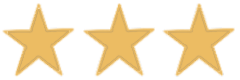
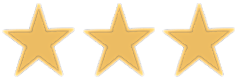
added star class

diff --git a/EndWorld.java b/EndWorld.java
@@ -9,10 +9,6 @@ import greenfoot.*;  // (World, Actor, GreenfootImage, Greenfoot and MouseInfo)
 public class EndWorld extends World
 {
     GreenfootImage endImage = new GreenfootImage ("images/endImage.PNG");
-    GreenfootImage zeroStar = new GreenfootImage ("imges/zeroStar.PNG");
-    GreenfootImage oneStar = new GreenfootImage ("imges/oneStar.PNG");
-    GreenfootImage twoStar = new GreenfootImage ("imges/twoStar.PNG");
-    GreenfootImage threeStar = new GreenfootImage ("imges/threeStar.PNG");
     
     Label completeLabel = new Label ("COMPLETE", 60);
     Label ordersDeliveredLabel = new Label ("Orders Delivered", 20);
@@ -25,7 +21,13 @@ public class EndWorld extends World
     Label totalCalculation;
     
     Color color = new Color (100, 100, 100);
-    Color white = new Color (155, 155, 155);
+    
+    Button continueButton;
+    Color blue = new Color (0, 71, 87);
+    Label continueLabel;
+    
+    Star star = new Star();
+    
     public EndWorld(int level, int numDelivered, int numFailed)
     {    
         super(1000, 600, 1); 
@@ -61,5 +63,20 @@ public class EndWorld extends World
         ordersFailedLabel.setLineColor(color);
         totalCalculation.setLineColor(color);
         totalLabel.setLineColor(color);
+        
+        continueLabel = new Label ("continue", 35);
+        continueButton = new Button (160, 60, blue);
+        addObject(continueButton, 8*60 + 20, 8*60 + 20);
+        addObject(continueLabel, 8*60 + 20, 8*60 + 20);
+        
+        addObject(star, 8*60 + 20, 6*60 + 20);
+    }
+    
+    public void act() {
+        if (Greenfoot.mouseClicked(continueLabel) || Greenfoot.mouseClicked(continueButton)) {
+            GameState s = new GameState();
+            Greenfoot.setWorld (new LevelWorld(s.level1Unlocked, s.level2Unlocked, s.level3Unlocked));
+            
+        }
     }
 }

diff --git a/Star.java b/Star.java
@@ -1,0 +1,23 @@
+import greenfoot.*;  // (World, Actor, GreenfootImage, Greenfoot and MouseInfo)
+
+/**
+ * Write a description of class Star here.
+ * 
+ * @author (your name) 
+ * @version (a version number or a date)
+ */
+public class Star extends Actor
+{
+    GreenfootImage zeroStar = new GreenfootImage ("images/zeroStar.PNG");
+    GreenfootImage oneStar = new GreenfootImage ("images/oneStar.PNG");
+    GreenfootImage twoStar = new GreenfootImage ("images/twoStar.PNG");
+    GreenfootImage threeStar = new GreenfootImage ("images/threeStar.PNG");
+    public Star() {
+        setImage (threeStar);
+    }
+    
+    public void act()
+    {
+        // Add your action code here.
+    }
+}

diff --git a/LevelWorld.java b/LevelWorld.java
@@ -32,9 +32,9 @@ public class LevelWorld extends World
         if (Greenfoot.mouseClicked(level1)) {
             Greenfoot.setWorld (new MyWorld(1));
         } else if (Greenfoot.mouseClicked(level2) && level2.isUnlocked()) {
-            Greenfoot.setWorld (new MyWorld(1));
+            Greenfoot.setWorld (new MyWorld(2));
         } else if (Greenfoot.mouseClicked(level3) && level3.isUnlocked()) {
-            Greenfoot.setWorld (new MyWorld(1));
+            Greenfoot.setWorld (new MyWorld(3));
         } 
     }
 }
